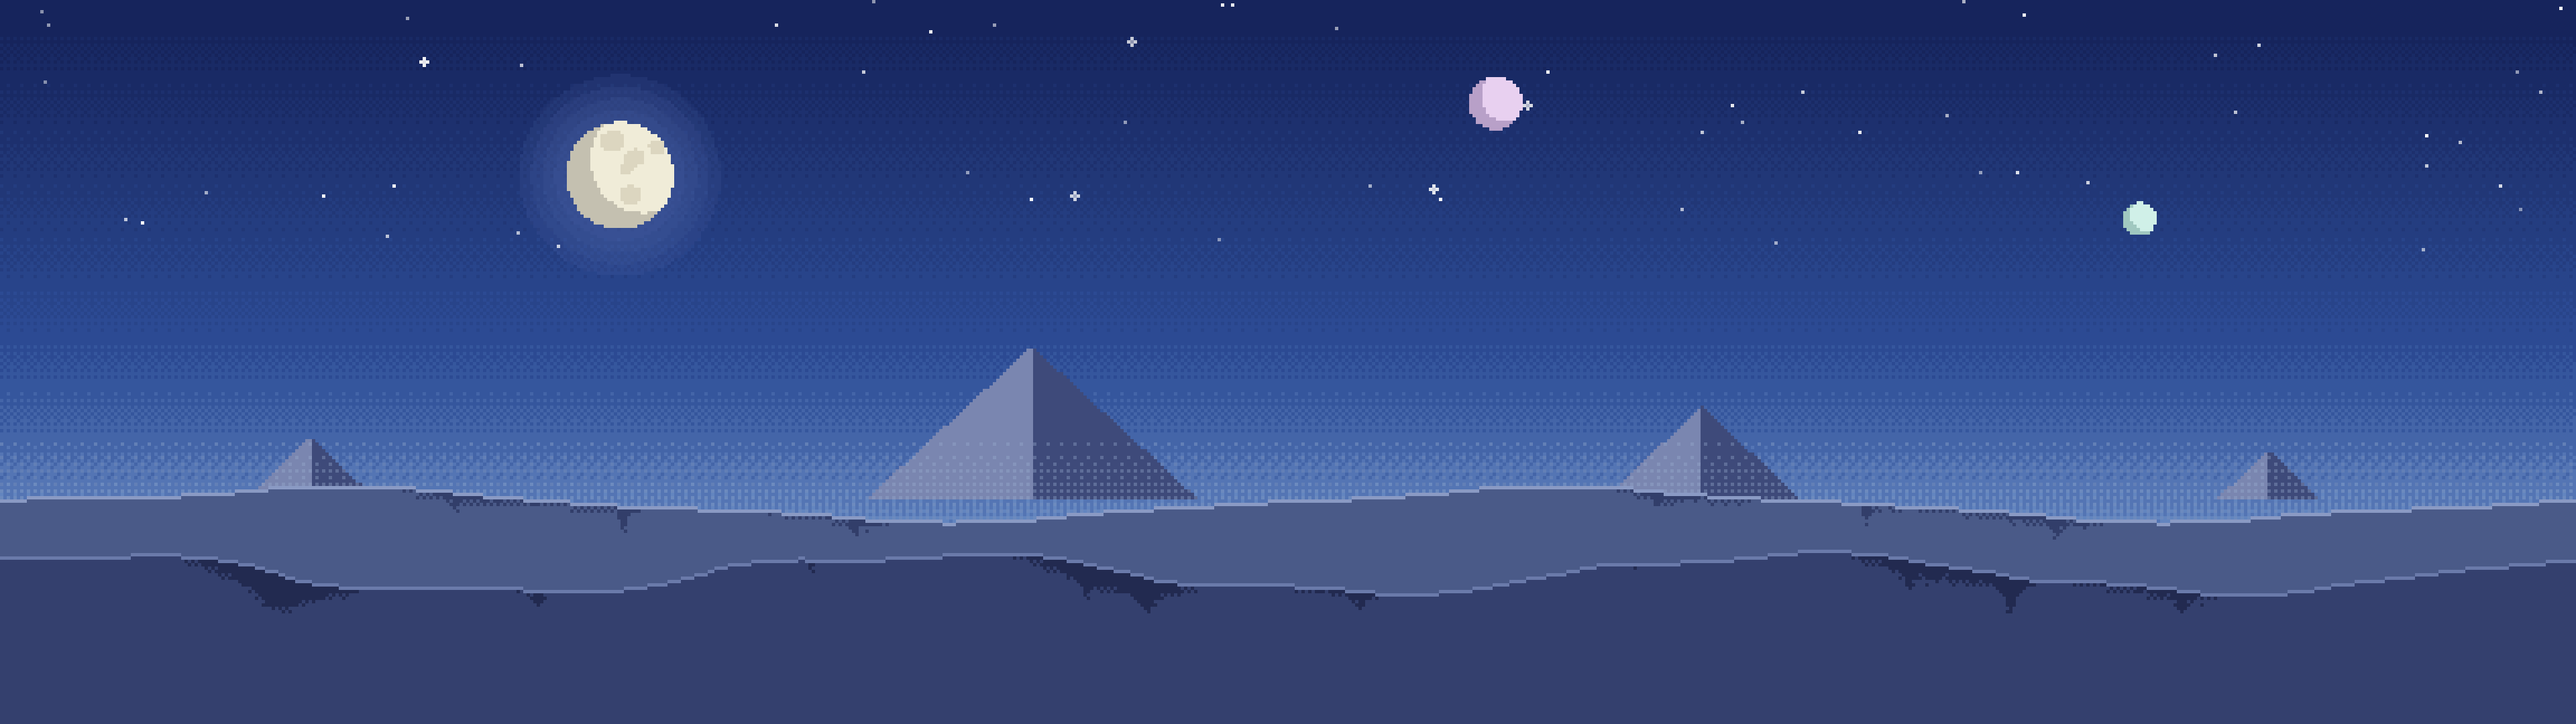
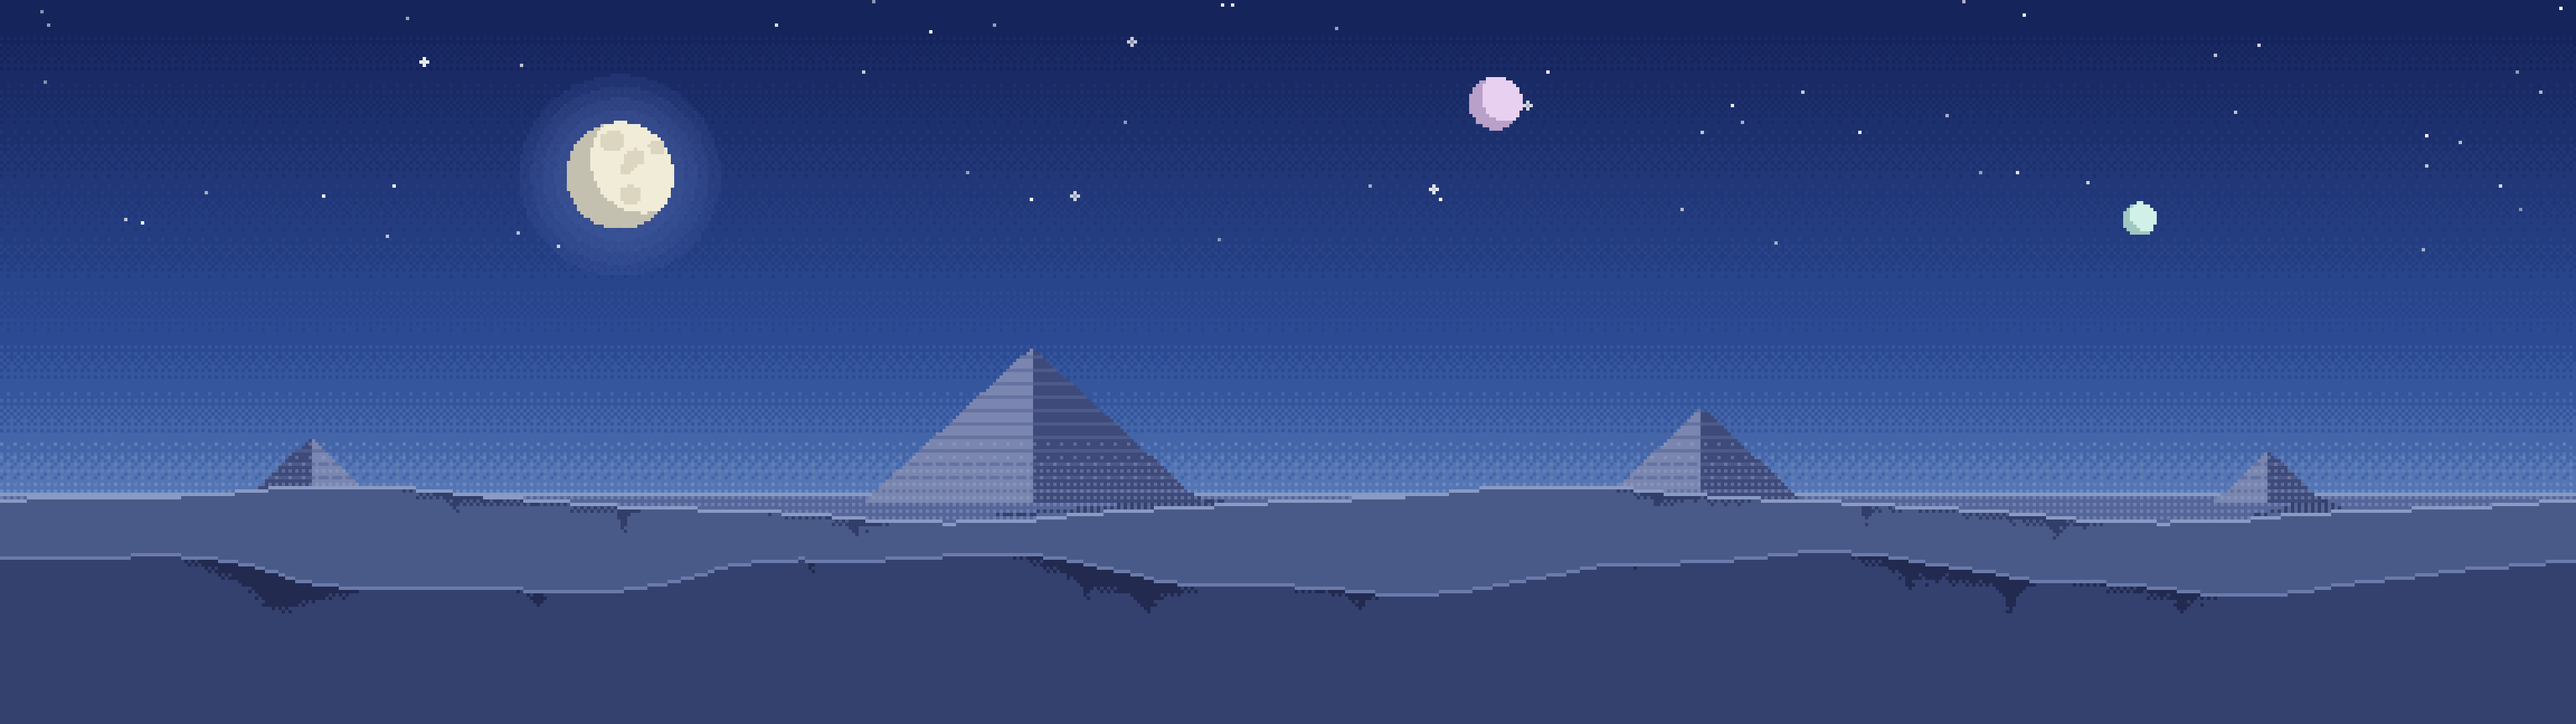
Ground the pyramids of 11 and 12; more sand for Miragia (D13.2)
Levels 11 and 12: the far pyramids stood on the horizon with the dunes
in front lower than their feet, so they seemed to hover, and 12's
shadows hung straight below them like reflections. The sand now runs on
as a plain up to their bases, each pyramid sits a few rows into it and
casts its shadow on it away from the light (long and sideways from 12's
low sun, now on the left; short from 11's moon).

Level 9 (Miragia): the flat-topped hills with domes and masts are gone.
Rippled dunes, a mirage lake mirroring far rock spires and palms, and a
small camel caravan instead. The other pictures already stood on their
ground and come out pixel for pixel the same.

diff --git a/tools/make_keen4_backgrounds.py b/tools/make_keen4_backgrounds.py
@@ -25,6 +25,7 @@ import os
 import sys
 
 import numpy as np
+from PIL import Image, ImageDraw
 
 from background_painter import BAYER, NARROW, WIDE, Canvas, mix, rgb
 
@@ -43,6 +44,63 @@ def _pyramid(c, cx, ground, half, tall, lit, shade, courses=0, course=None, sun_
     if courses and course is not None:
         rows = inside & (up % courses == courses - 1) & (up > 0)
         c.px[rows] = mix(c.px[rows], rgb(course), 0.6)
+
+
+def _ground_shadow(c, cx, ground, half, length, drop, colour, away=1, dither=0.8):
+    """The shadow a pyramid casts on flat sand: a thin wedge from under its
+    base out to the side away from the light (`away` is +1 for right, -1
+    for left), `length` long and coming `drop` rows towards the viewer at
+    its tip. Painted before the pyramid, so the pyramid stands on it."""
+    mask = Image.new("L", (c.w, c.h), 0)
+    tip = (cx + away * (half + length), ground + drop)
+    near = (cx - away * half * 0.2, ground + drop + 1)
+    ImageDraw.Draw(mask).polygon([near, (cx + away * half, ground - 1), tip], fill=1)
+    ys, xs = np.mgrid[0 : c.h, 0 : c.w]
+    inside = (np.array(mask) > 0) & (ys >= ground - 1)
+    c.px[inside & (BAYER[ys % 4, xs % 4] < dither)] = rgb(colour)
+
+
+def _ripples(c, line, colour, spacing=4, depth=40, wave=9.0):
+    """Wind ripples on sand below a skyline: thin wavy lines that follow
+    the dune's top, broken up by the dither (the sand of Miragia has
+    them too)."""
+    ys, xs = np.mgrid[0 : c.h, 0 : c.w]
+    below = ys - np.round(line).astype(int)[xs]
+    wobble = np.round(np.sin(xs / wave + below * 0.35) * 1.5).astype(int)
+    on = (below > 2) & (below < depth) & ((below + wobble) % spacing == 0)
+    on &= BAYER[ys % 4, xs % 4] < 0.7
+    c.px[on] = rgb(colour)
+
+
+# A camel walking right, as a far silhouette (our own little drawing).
+CAMEL = (
+    "....#.....",
+    "...###..##",
+    "..#####.#.",
+    ".#######..",
+    ".######...",
+    ".#.#..#.#.",
+    ".#.#..#.#.",
+)
+
+
+def _camel(c, x, ground, colour):
+    """A camel with its rider standing on `ground` with its left side at x."""
+    for row, text in enumerate(CAMEL):
+        for col, mark in enumerate(text):
+            if mark == "#":
+                c._dot(x + col, ground - len(CAMEL) + 1 + row, rgb(colour))
+
+
+def _spire(c, x, ground, tall, width, colour, light):
+    """A rock spire of the far desert: a tapering column of wind-worn rock,
+    its sunny side lit, rough at the edges."""
+    for k in range(tall):
+        t = k / tall
+        rough = int(c.rng.integers(0, 2))
+        half = max(1, int(round(width * (1 - 0.7 * t ** 1.5)))) - (rough if t > 0.2 else 0)
+        c._rect(x - half, ground - k, 2 * half + 1, 1, colour)
+        c._rect(x - half, ground - k, max(1, half // 2), 1, light)
 
 
 def _dunes(c, base, waves, colour, rim, shade, phase=0.0, sun_left=True):
@@ -223,25 +281,34 @@ def level08(c):
 
 
 def level09(c):
-    """Miragia: a shimmering pastel noon in the desert, a white-hot sun, and
-    on the horizon a mirage: far buttes and domes floating over a false lake
-    that mirrors them in wavering bands."""
+    """Miragia: a shimmering pastel noon over a sea of sand, a white-hot
+    sun, far rock spires and a little oasis on the horizon mirrored in the
+    false lake of a mirage, a caravan on the crest of a dune and rippled
+    dunes in front."""
     c.sky([(0, 0x6A5AB8), (0.45, 0xA88CD0), (0.72, 0xE8B8D8), (1, 0xFFE4D8)])
     c.disc(c.w * 0.3, c.h * 0.2, 11, 0xFFFFF4, glow=0xFFE8F0, glow_size=22)
-    horizon = 0.64
-    buttes = c.plateaus(horizon, 4, 0.18)
-    c.fill_below(buttes, 0x9A70A8, rim=0xC898C8)
-    # The far city of the mirage: domes and thin towers on the buttes.
-    for x in (int(c.w * 0.14), int(c.w * 0.4), int(c.w * 0.66), int(c.w * 0.88)):
-        y = c.footing(buttes, x - 8, 16)
-        c._blob(x, y, 8, 0xB088C0, flat_below=y)
-        c._rect(x, y - 13, 1, 5, 0xB088C0)
-        c._rect(x + 10, y - 16, 2, 16, 0xB088C0)
-        c._rect(x + 9, y - 18, 4, 2, 0xC8A0D0)
+    horizon = 0.62
+    far = _dunes(c, horizon + 0.01, [(47, 0.012), (17, 0.004)], 0xE8B8B0, 0xFFE0D4, 0xD8A0A8)
+    for x, tall, width in ((0.12, 24, 5), (0.17, 13, 3), (0.78, 28, 6), (0.85, 15, 3)):
+        x = int(c.w * x)
+        _spire(c, x, c.footing(far, x - width, 2 * width + 1), tall, width, 0xB088B0, 0xD0A8C8)
+    for x in (0.47, 0.5, 0.53, 0.55):
+        x = int(c.w * x)
+        _palm(c, x, c.footing(far, x - 1, 3), int(c.rng.integers(9, 13)),
+              c.rng.choice([-1, 1]) * 0.5, 0xA080A8, fronds=6)
     c.haze(0xFFE4D8, 0.46, horizon, 0.5)
-    _mirage(c, horizon, 0.1, 0xF4D4DC, strength=0.3)
-    sand = c.hills(0.76, 1.0, [(71, 0.01), (23, 0.004)])
-    c.fill_below(sand, 0xE8C8A0, rim=0xFFE8C8, dark=0xD8B090)
+    # The false lake: the sky and the far land mirrored, just below the
+    # horizon, where the hot air bends the light.
+    _mirage(c, horizon + 0.012, 0.07, 0xF4D4DC, strength=0.3)
+    mid = _dunes(c, 0.74, [(67, 0.035), (23, 0.008)], 0xE0A888, 0xF8D0B0, 0xC08470, phase=0.8)
+    _ripples(c, mid, 0xCC9478, spacing=4, depth=30)
+    # A caravan walking along the crest of the middle dunes.
+    crest = int(np.argmin(mid[: c.w // 2]))
+    for k in range(4):
+        x = crest - 30 + k * 13
+        _camel(c, x, c.footing(mid, x + 1, 8), 0x7A4C6A)
+    near = _dunes(c, 0.86, [(53, 0.04), (19, 0.01)], 0xC88A68, 0xE8B090, 0xA0664E, phase=2.2)
+    _ripples(c, near, 0xB07658, spacing=5, depth=60, wave=12.0)
 
 
 def level10(c):
@@ -265,50 +332,51 @@ def level10(c):
 
 def level11(c):
     """The Pyramid of the Moons: three moons in a deep blue evening sky with
-    the first stars, two far pyramids and moonlit dunes."""
+    the first stars, far pyramids standing on a moonlit plain and dunes in
+    front."""
     c.sky([(0, 0x16245C), (0.5, 0x2E4E98), (0.8, 0x6A8CC4), (1, 0xA8BCD8)])
     c.stars(60, 0.0, 0.36)
-    c.disc(c.w * 0.24, c.h * 0.24, 16, 0xF0ECD8, glow=0x4C64A8, glow_size=14, shade=0xC4C0B0)
+    moon_x = c.w * 0.24
+    c.disc(moon_x, c.h * 0.24, 16, 0xF0ECD8, glow=0x4C64A8, glow_size=14, shade=0xC4C0B0)
     c.craters(c.w * 0.24 + 4, c.h * 0.24 - 3, 16, 0xDCD6C0, 5)
     c.disc(c.w * 0.58, c.h * 0.14, 8, 0xE8D0F0, shade=0xB8A0C8)
     c.disc(c.w * 0.83, c.h * 0.3, 5, 0xD0F0E8, shade=0xA0C8C0)
     horizon = 0.68
+    # The sand runs on behind the dunes up to the pyramids' feet, so they
+    # stand on it, each with its short shadow from the high moon.
+    c.plain(horizon, 0x56669A, rim=0x8A9AC4)
+    ground = int(horizon * c.h) + 3
     for cx, half, tall in ((0.4, 50, 46), (0.66, 30, 28), (0.12, 20, 19), (0.88, 16, 15)):
-        _pyramid(c, c.w * cx, horizon * c.h + 2, half, tall, 0x7A86B0, 0x3E4A7A,
-                 courses=4, course=0x5A6696)
+        cx = c.w * cx
+        away = 1 if cx > moon_x else -1
+        _ground_shadow(c, cx, ground, half, half * 0.6, 3, 0x34406E, away=away)
+        _pyramid(c, cx, ground, half, tall, 0x7A86B0, 0x3E4A7A,
+                 courses=4, course=0x5A6696, sun_left=cx > moon_x)
     c.haze(0x9AB0D0, 0.5, horizon, 0.5)
     _dunes(c, horizon + 0.04, [(59, 0.04), (19, 0.01)], 0x4A5A88, 0x8A9AC4, 0x323E6A)
     _dunes(c, 0.82, [(41, 0.05), (13, 0.01)], 0x34406E, 0x6A7AAA, 0x222A50, phase=1.1)
 
 
 def level12(c):
-    """The Pyramid of Shadows: the sun setting red behind a row of far
-    pyramids, whose long shadows lie across orange dunes under a purple
-    sky."""
+    """The Pyramid of Shadows: the sun setting red at the far end of a
+    plain of orange sand under a purple sky, a row of pyramids standing on
+    it, each throwing a long shadow across the sand away from the sun."""
     c.sky([(0, 0x2A1448), (0.45, 0x6A2460), (0.72, 0xC0404A), (0.9, 0xF08040), (1, 0xF8B060)])
     c.stars(20, 0.0, 0.22)
-    sun_x = c.w * 0.5
+    sun_x = c.w * 0.2
     horizon = 0.68
     c.disc(sun_x, c.h * horizon - 6, 20, 0xFFD080, glow=0xF07040, glow_size=30)
-    tops = []
-    for k in range(5):
-        cx = c.w * (0.1 + 0.2 * k) + c.rng.integers(-12, 12)
-        half = int(c.rng.integers(14, 30))
-        _pyramid(c, cx, horizon * c.h, half, half, 0x3A1430, 0x2A0C24)
-        tops.append((cx, half))
-    # Long shadows from the low sun, falling towards the viewer.
-    ground = c.hills(horizon + 0.02, 1.0, [(37, 0.008)])
-    c.fill_below(ground, 0xD07040, rim=0xF0A060)
-    ys, xs = np.mgrid[0 : c.h, 0 : c.w]
-    for cx, half in tops:
-        # A pyramid's shadow is a triangle on the sand, its point towards
-        # the viewer (down in the picture) and away from the sun.
-        down = ys - horizon * c.h
-        length = half * 1.6
-        lean = (cx - sun_x) / c.w * down * 2.2
-        width = half * np.clip(1 - down / length, 0, 1)
-        shadow = (ys > ground[xs]) & (down < length) & (np.abs(xs - cx - lean) < width)
-        c.px[shadow & (BAYER[ys % 4, xs % 4] < 0.8)] = rgb(0x6A2834)
+    c.plain(horizon, 0xD07040, rim=0xF0A060)
+    ground = int(horizon * c.h) + 2
+    for at in (0.05, 0.36, 0.54, 0.72, 0.9):
+        cx = c.w * at + c.rng.integers(-10, 10)
+        half = int(c.rng.integers(16, 30))
+        # The sun is low and to one side: the shadow runs along the sand,
+        # several times the pyramid's width, slanting a little towards the
+        # viewer.
+        away = 1 if cx > sun_x else -1
+        _ground_shadow(c, cx, ground, half, half * 3.2, 5, 0x9A4438, away=away, dither=1.0)
+        _pyramid(c, cx, ground, half, half, 0x5A1C34, 0x2A0C24, sun_left=cx > sun_x)
     c.haze(0xF08040, 0.6, 0.72, 0.4)
     _dunes(c, 0.84, [(47, 0.04), (17, 0.01)], 0x8A3C34, 0xC0604A, 0x5A2028, phase=0.6)
 

diff --git a/PROGRESS.md b/PROGRESS.md
@@ -192,6 +192,7 @@ verschillen, byte voor byte).
 - [x] Tweede ronde (7 en 8): nieuwe suite `test_galaxy_split_small_areas`, `test_galaxy_sky_pockets` herschreven, de glastest in `test_keen4_d13_2_fixes` aangepast en de split-wandeling daar met een vaste seed (het level begint op een willekeurige plek; soms hield een wezen speler 2 tegen, ook al op e3c8482). 125 suites: 124 groen, `test_keen4_v14` overgeslagen, 0 fouten, geen SCRIPT ERROR, gdlint schoon. Regressies Keen 1, 2 en 4 tegen e3c8482: alles gelijk. Apps opnieuw gebouwd.
 - [x] Derde ronde (9): `test_galaxy_sky_pockets` met de lage richel tegen een muur (faalt op de oude regel), de level 9-test kijkt ook naar die plek. 125 suites: 124 groen, `test_keen4_v14` overgeslagen, 0 fouten, geen SCRIPT ERROR, gdlint schoon. Regressies Keen 1, 2 en 4 tegen 50138bc: alles gelijk. Apps opnieuw gebouwd.
 - [x] Derde ronde (10): nieuwe suites `test_galaxy_wide_waking` (een ding naast het 4:3-beeld slaapt in 4:3 en is wakker en getekend in breedbeeld, marges, split-helft, een breed gespeeld level met F2 halverwege komt terug uit zijn frames; faalt zonder de brede telling) en `test_keen4_wide_waking_screen` (scherm: breedte in een level en in de opslag, 4:3 en demo het origineel). 127 suites: 126 groen, `test_keen4_v14` overgeslagen, 0 fouten, geen SCRIPT ERROR, gdlint schoon. Regressies Keen 1, 2 en 4 tegen 50138bc: alles gelijk (op de regressiebeelden van Keen 4 staat niets aan de rand van het brede beeld). Apps opnieuw gebouwd.
+- [x] **Plaatjes: piramides en Miragia** (21-10, verzoek van de gebruiker). Level 11 en 12: de piramides zweefden (lucht tussen hun voet en de duinen, in 12 schaduwen recht eronder als spiegelbeelden). Nu loopt het zand als vlakte door tot hun voet, staat elke piramide er 2-3 rijen in en valt de schaduw over het zand van het licht af: in 12 lang en opzij van de lage zon (nu links), in 11 kort van de maan. Level 9: de paarse heuvels met koepels en masten zijn weg; nu meer zand: duinen met ribbels (zoals het zand van het level zelf), een luchtspiegeling met rotsnaalden en palmen aan de horizon, en een karavaan kamelen op een duinkam. Nagekeken: 5, 7, 8, 10, 13, 14 en 16 staan al op de grond en zijn pixel voor pixel gelijk gebleven. Bekeken als plaatje en in het spel (breedbeeld, levels 9, 11 en 12). 127 suites: 126 groen, `test_keen4_v14` overgeslagen, 0 fouten, geen SCRIPT ERROR (geen GDScript veranderd). Apps opnieuw gebouwd.
 - Open: alleen of met twee spelers blijft de blik staan na het loslaten tot Keen van de grond gaat (onze engine; niet naast het origineel gelegd).
 - Open: gaat een Keen door een deur terwijl het scherm gesplitst is, dan glijdt zijn helft over het level naar de nieuwe plek (zo was het al); zeg het als dat moet springen.
 - Open: schermafbeeldingen met `scripted_play.gd` op de Mac lopen qua frames niet vast (laden duurt wisselend); pauzes zijn daarom vooral in de tests vergeleken.
@@ -291,9 +292,9 @@ edelsteen. Vloeiende beweging werkt overal. Beide staan standaard uit.
 **De plaatjes.** Tien eigen achtergronden voor de levels met lucht (5, 7-14,
 16), getekend vanuit code (`tools/make_keen4_backgrounds.py`, met de
 gedeelde `tools/background_painter.py`): besneeuwde bergen, een heuveldorp,
-buttes bij zonsondergang, een luchtspiegeling, een oase, drie manen boven
-piramides, zwarte piramides bij rode zon, ruïnes, een storm, een vulkaan.
-Samen ~56 KB, alleen in breedbeeld.
+buttes bij zonsondergang, duinen met een luchtspiegeling en een karavaan,
+een oase, drie manen boven piramides, piramides met lange schaduwen bij rode zon, ruïnes, een storm, een vulkaan.
+Samen ~57 KB, alleen in breedbeeld.
 
 - [x] Paddle War, Choose Game onder Quit, SOUND- en MUSIC-kaarten, F1 in het menu, muziek in het menu.
 - [x] xBRZ- en vloeiende-beweging-fixes; tests die een draaiend scherm nodig hebben lopen nu mee (`TREE_SUITES` in de testrunner).

diff --git a/docs/keen4/gameplay.md b/docs/keen4/gameplay.md
@@ -845,10 +845,10 @@ clouds, palm crowns and pyramid steps stays calm.
 | 5 Chasm of Chills | a cold clear morning: a pale sun, snowy blue peaks, frosted firs on the hills (wide) |
 | 7 Hillville | a sunny afternoon: rolling green hills with round huts and palms, fat clouds (wide) |
 | 8 Sand Yego | a violet dusk: a big sun setting on far flat-topped buttes, sand dunes (16:9) |
-| 9 Miragia | a pastel noon: lavender sky, white sun, buttes with domes and towers mirrored in a mirage (16:9) |
+| 9 Miragia | a pastel noon over a sea of sand: lavender sky, white sun, far rock spires and a little oasis of palms mirrored in the false lake of a mirage, a camel caravan on a dune crest, rippled dunes in front (16:9; the flat-topped hills went in D13.2) |
 | 10 Lifewater Oasis | a fresh morning: a still lake in the dunes, palms on its far shore, the sun's path on the water (16:9) |
-| 11 Pyramid of the Moons | an evening with three moons and the first stars, far pyramids in moonlit dunes (wide) |
-| 12 Pyramid of Shadows | a red sunset behind a row of black pyramids whose shadows lie across the sand (wide) |
+| 11 Pyramid of the Moons | an evening with three moons and the first stars, far pyramids standing on a moonlit plain (the sand runs on up to their feet, short shadows away from the big moon), dunes in front (wide) |
+| 12 Pyramid of Shadows | a red sun setting low at the far end of an orange plain, a row of dark pyramids standing on it, each throwing a long shadow sideways across the sand away from the sun (wide) |
 | 13 Pyramid of the Ancients | a pale gold morning: great pyramids in the haze, broken columns and obelisks on a rise (wide) |
 | 14 Pyramid of the Forbidden | a storm in a green sky: a red sun in dark clouds, lightning, a black pyramid (wide) |
 | 16 Isle of Fire | dusk over the sea: an erupting volcano with lava and smoke, its glow on the water, a palm islet (wide) |
@@ -860,6 +860,22 @@ that), the pictures show through level 9's glass domes, and the land of the
 picture lines up behind the grass line of level 5 and the palms of 7, 10
 and 16. `test_keen4_backgrounds` checks that exactly levels 5, 7-14 and 16
 have a picture.
+
+**Standing on the ground (D13.2, the user's request of 21-10-2026).** In
+11 and 12 the far pyramids stood on the horizon line with the dunes in
+front lower than their feet, so sky showed under them and they seemed to
+hover; 12's shadows hung straight down under them like reflections. Now
+the sand runs on as a flat plain behind the dunes, every pyramid's base
+sits 2-3 rows into it, and each casts its shadow on that plain as a
+wedge (`_ground_shadow`) away from the light: long and sideways from
+12's low sun (moved to the left), short from 11's moon. The other
+pictures with things standing on land (5, 7, 8, 10, 13, 14, 16) were
+looked at again: they already stand on their footing or on dunes that
+reach their base, and are unchanged (pixel for pixel). Miragia (9) lost
+its flat-topped hills with domes and masts for more sand: rippled dunes
+(`_ripples`, after the level's own rippled sand), a mirage lake on the
+horizon mirroring far rock spires (`_spire`) and palms, and a little
+caravan (`_camel`, our own 10x7 drawing).
 
 **To paint them again** (after changing a scene): `python3
 tools/make_keen4_backgrounds.py` (Pillow and NumPy; or with a folder to

diff --git a/docs/doorlooptijden.md b/docs/doorlooptijden.md
@@ -105,4 +105,5 @@ Keen 4 is een andere engine (Galaxy); de schatting per mijlpaal staat in
 | Fix: vloer van Miragia dicht, glas doorzichtig (D13.2) | 21-10 | ~15 min | 15 min | Alleen gaten in een vloerband krijgen de luchtkleur, het glas toont het plaatje weer; nagekeken op alle levels met een plaatje |
 | Fix: Miragia lucht boven de looprand (D13.2) | 21-10 | ~16 min | 16 min | Een gat in de vloer moet bovenaan dicht zijn; de lucht boven een lage richel bij de slak toont het plaatje weer; naast het origineel gelegd (js-dos); regressies Keen 1, 2 en 4 gelijk |
 | Fix: vijanden en items die opduiken in breedbeeld (D13.2) | 21-10 | ~13 min | 13 min | Wakker worden, slapen en "in beeld" tellen met het brede beeld (en elke split-helft) plus de marges van het origineel; 4:3 en demo's als het origineel; de breedte staat tussen de frames van een opgeslagen level; regressies Keen 1, 2 en 4 gelijk |
-| **Totaal** | 19-10 t/m 21-10 | **~21 u 03** opgeteld | | D1-D13 en D13.2; vanaf D9 werkten agents deels tegelijk, dus de klok liep korter. Iets meer dan de schatting (13-15 u) door co-op, online, 1.4 en de metingen naast het origineel |
+| Plaatjes: piramides en Miragia (D13.2) | 21-10 | ~15 min | 15 min | Piramides in 11 en 12 staan op een zandvlakte met schaduwen over het zand (in 12 lang, opzij van de lage zon); Miragia zonder heuvels, met ribbelduinen, een luchtspiegeling met rotsnaalden en palmen en een karavaan; de andere plaatjes nagekeken (ongewijzigd) |
+| **Totaal** | 19-10 t/m 21-10 | **~21 u 18** opgeteld | | D1-D13 en D13.2; vanaf D9 werkten agents deels tegelijk, dus de klok liep korter. Iets meer dan de schatting (13-15 u) door co-op, online, 1.4 en de metingen naast het origineel |
